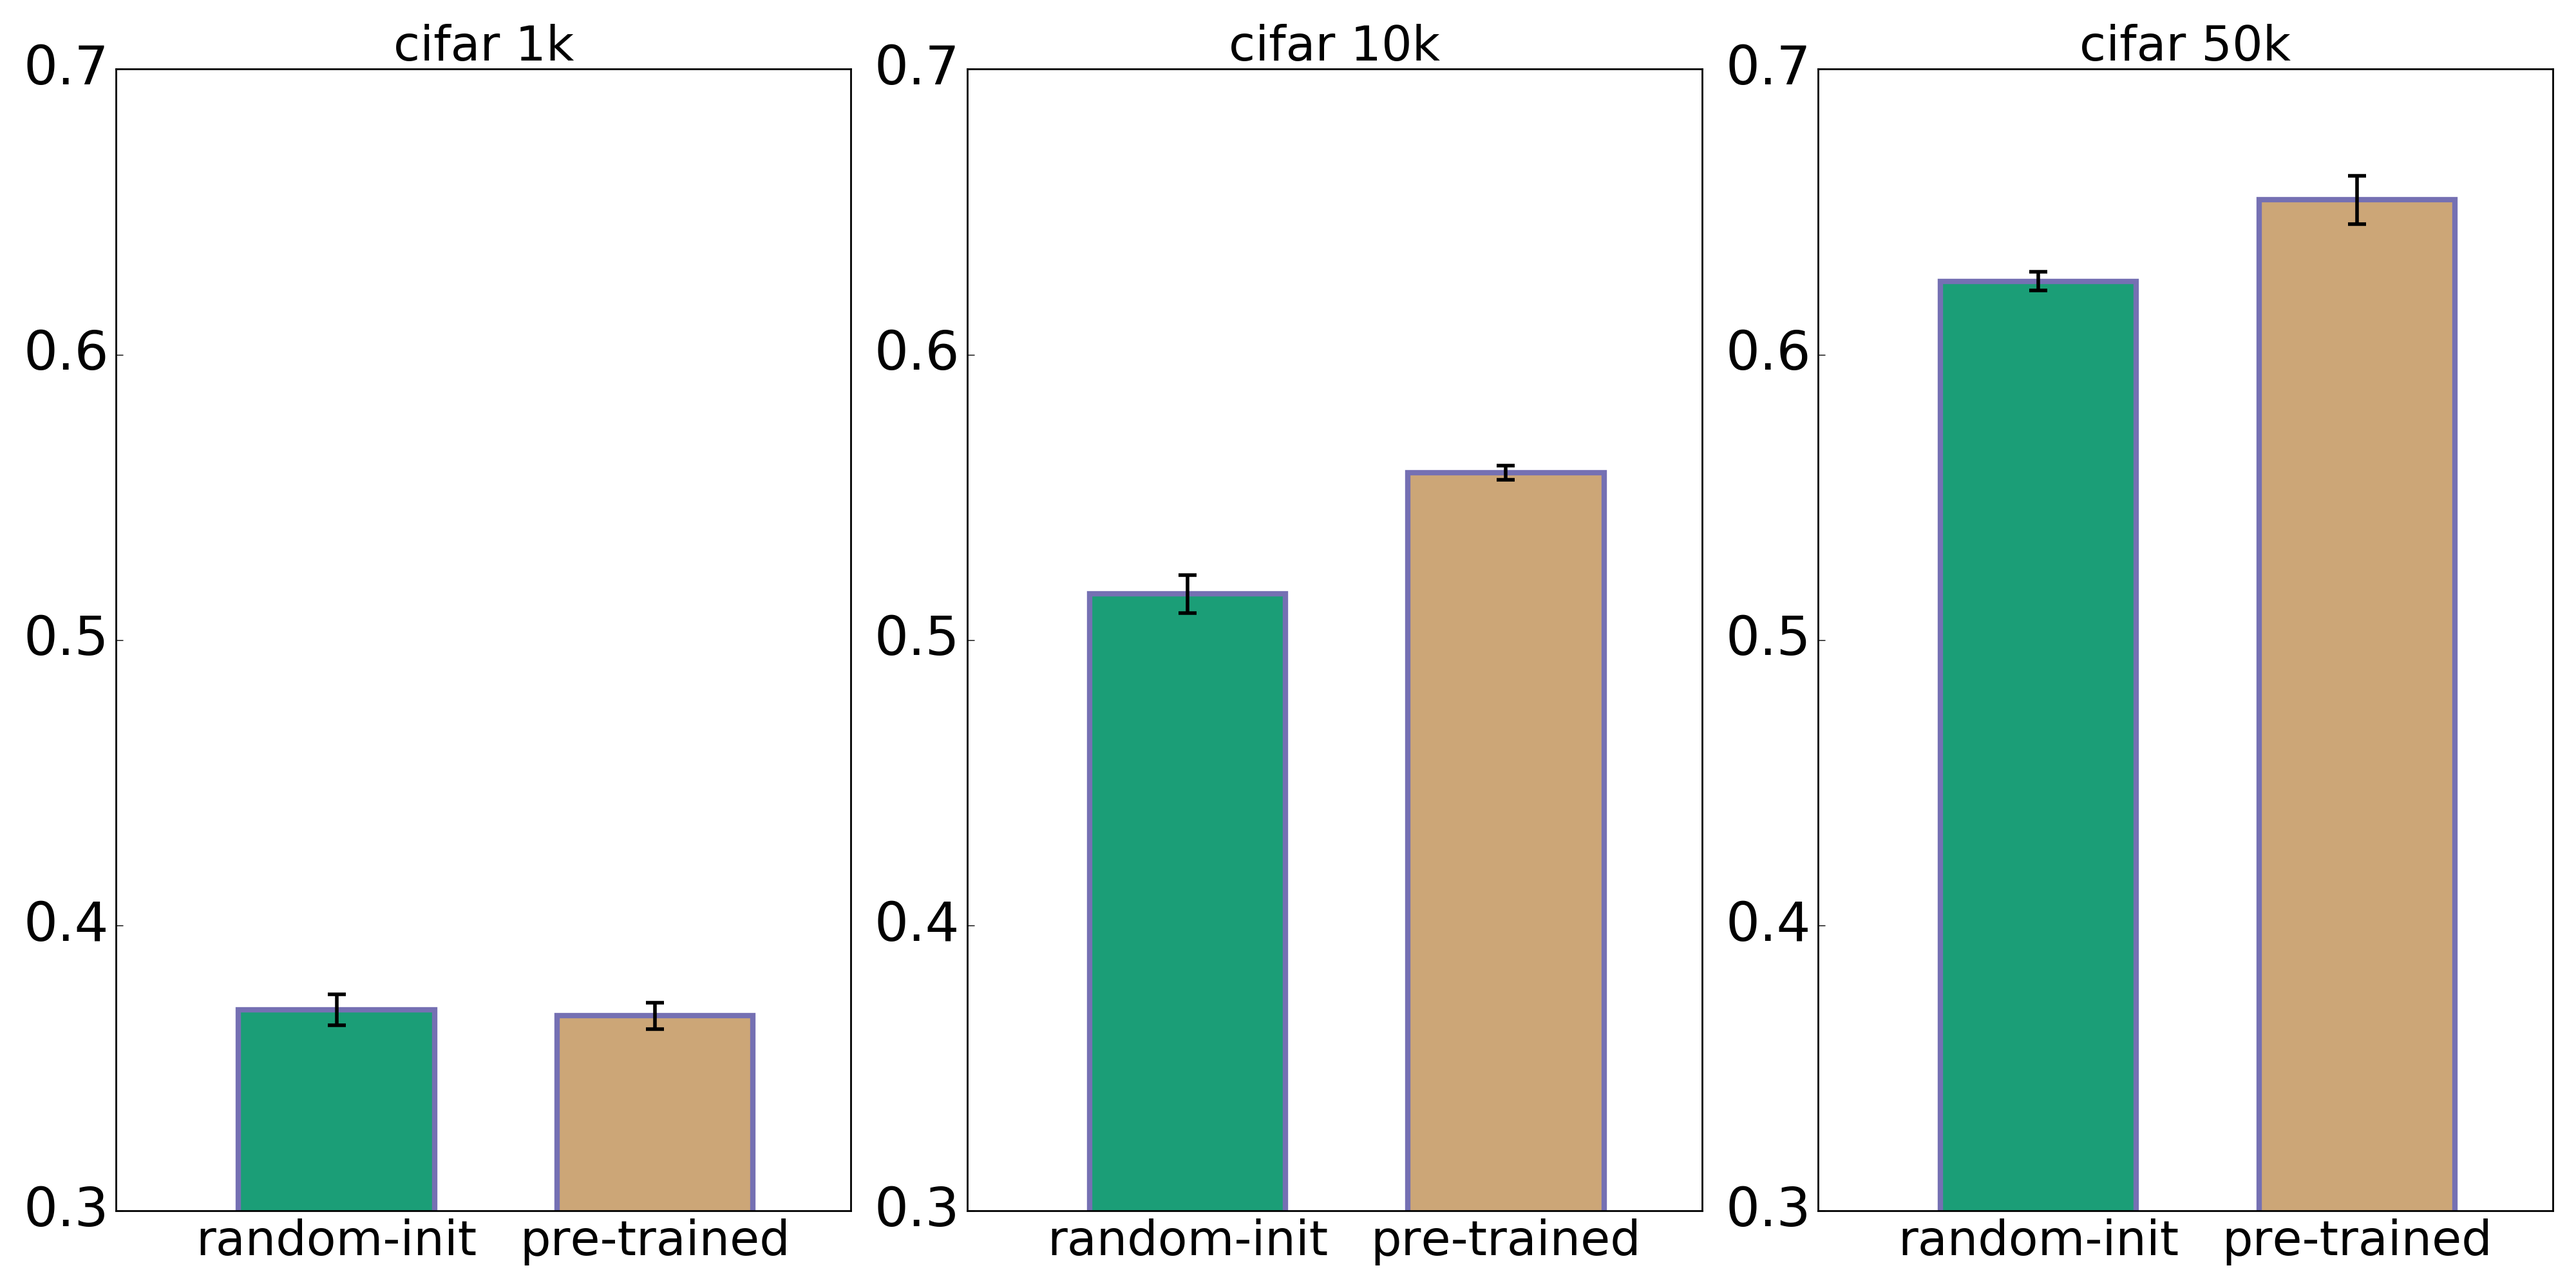
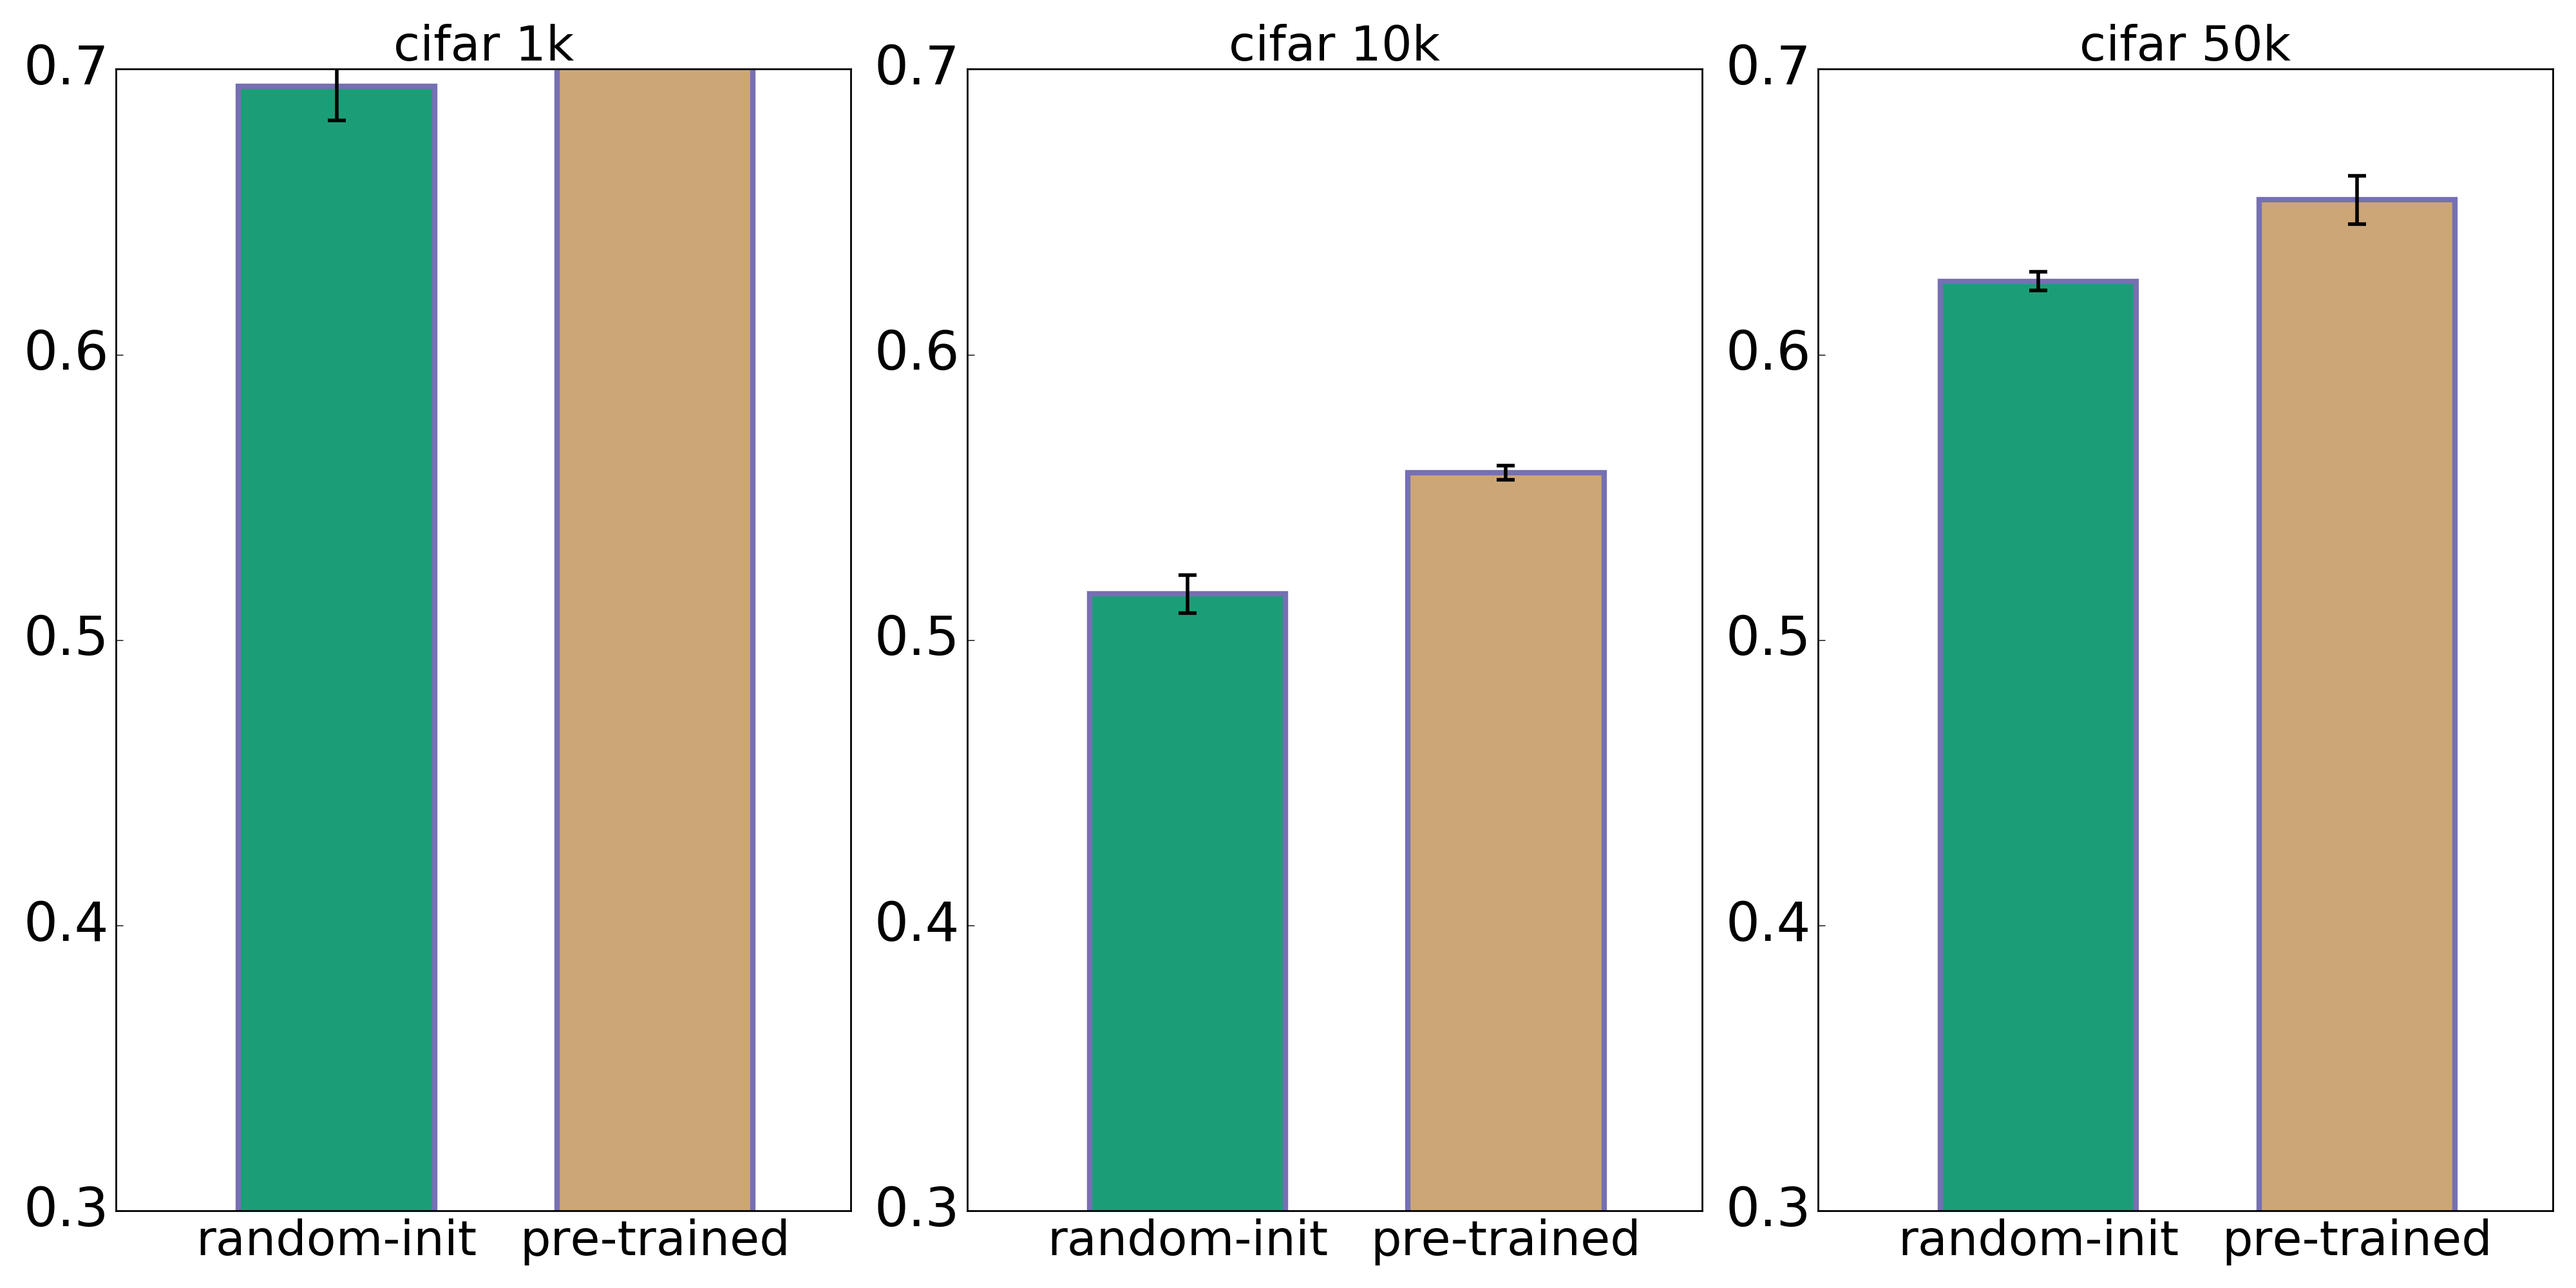
updated cifar1k values

Changed region(s): [[0.0938, 0.031, 0.3125, 0.806]]

diff --git a/presentation/paper/autoencoder_pretraining.tex b/presentation/paper/autoencoder_pretraining.tex
@@ -330,13 +330,13 @@
 
       Unlike the CAE using a sigmoidal function, the representation learned with ReLu activation function did not improve classification accuracy of the CNN.
 
-      \begin{figure}[h]
+      \begin{figure}[ht]
 
 				\begin{subfigure}{0.4\linewidth}
 
 					\centering
-					\includegraphics[width=0.6\linewidth]{../graphics/reconstructions/cifar/relu/input_00_relu.png}
-					\includegraphics[width=0.6\linewidth]{../graphics/reconstructions/cifar/relu/reconstruction_00_relu.png}
+					\includegraphics[width=0.4\linewidth]{../graphics/reconstructions/cifar/relu/input_00_relu.png}
+					\includegraphics[width=0.4\linewidth]{../graphics/reconstructions/cifar/relu/reconstruction_00_relu.png}
 					%\caption{(CAE:) Reconstruction example using ReLU activation + smaller network size}
 
 				\end{subfigure}
@@ -396,10 +396,69 @@
     \end{figure}
 
       \paragraph{Filters after Training}
+
+      When observing the learned first layer filters after training on the classification task, we observe a striking difference between the pre-trained and randomly initialized networks. An example on the \emph{CIFAR-10} dataset can be seen in figure~\ref{fig:cifar_filters}
+
         \begin{enumerate}
-          \item{Include filter plot after training}
+          
           \item{Describe first layer filters are different AFTER training although classification accuracy might be similar}
         \end{enumerate}
+
+
+      \begin{figure}
+          \centering
+
+            \begin{subfigure}{.4\linewidth}
+              \centering
+              \includegraphics[width=0.1\linewidth]{../graphics/cifar_filters/pre_trained_01.png} 
+              \includegraphics[width=0.1\linewidth]{../graphics/cifar_filters/pre_trained_02.png} %\hspace{0.05\linewidth}
+              \includegraphics[width=0.1\linewidth]{../graphics/cifar_filters/pre_trained_03.png}
+              \includegraphics[width=0.1\linewidth]{../graphics/cifar_filters/pre_trained_04.png} %\hspace{0.05\linewidth}
+              \includegraphics[width=0.1\linewidth]{../graphics/cifar_filters/pre_trained_05.png} %\hspace{0.05\linewidth}
+              \includegraphics[width=0.1\linewidth]{../graphics/cifar_filters/pre_trained_06.png} \\
+              \includegraphics[width=0.1\linewidth]{../graphics/cifar_filters/pre_trained_07.png} %\hspace{0.05\linewidth}
+              \includegraphics[width=0.1\linewidth]{../graphics/cifar_filters/pre_trained_08.png} %\hspace{0.05\linewidth}
+              \includegraphics[width=0.1\linewidth]{../graphics/cifar_filters/pre_trained_09.png}
+              \includegraphics[width=0.1\linewidth]{../graphics/cifar_filters/pre_trained_10.png} 
+              \includegraphics[width=0.1\linewidth]{../graphics/cifar_filters/pre_trained_11.png} %\hspace{0.05\linewidth}
+              \includegraphics[width=0.1\linewidth]{../graphics/cifar_filters/pre_trained_12.png} \\
+              \includegraphics[width=0.1\linewidth]{../graphics/cifar_filters/pre_trained_13.png} %\hspace{0.05\linewidth}
+              \includegraphics[width=0.1\linewidth]{../graphics/cifar_filters/pre_trained_14.png} %\hspace{0.05\linewidth}
+              \includegraphics[width=0.1\linewidth]{../graphics/cifar_filters/pre_trained_15.png}
+              \includegraphics[width=0.1\linewidth]{../graphics/cifar_filters/pre_trained_16.png} %\hspace{0.05\linewidth}
+              \includegraphics[width=0.1\linewidth]{../graphics/cifar_filters/pre_trained_17.png} %\hspace{0.05\linewidth}
+              \includegraphics[width=0.1\linewidth]{../graphics/cifar_filters/pre_trained_18.png}
+              %\caption{\emph{CIFAR-10}(CNN): random first layer filters, pre-trained}
+            \end{subfigure}
+            \begin{subfigure}{.4\linewidth}
+              \centering
+              \includegraphics[width=0.1\linewidth]{../graphics/cifar_filters/random_01.png} 
+              \includegraphics[width=0.1\linewidth]{../graphics/cifar_filters/random_02.png} %\hspace{0.05\linewidth}
+              \includegraphics[width=0.1\linewidth]{../graphics/cifar_filters/random_03.png}
+              \includegraphics[width=0.1\linewidth]{../graphics/cifar_filters/random_04.png} %\hspace{0.05\linewidth}
+              \includegraphics[width=0.1\linewidth]{../graphics/cifar_filters/random_05.png} %\hspace{0.05\linewidth}
+              \includegraphics[width=0.1\linewidth]{../graphics/cifar_filters/random_06.png} \\
+              \includegraphics[width=0.1\linewidth]{../graphics/cifar_filters/random_07.png} %\hspace{0.05\linewidth}
+              \includegraphics[width=0.1\linewidth]{../graphics/cifar_filters/random_08.png} %\hspace{0.05\linewidth}
+              \includegraphics[width=0.1\linewidth]{../graphics/cifar_filters/random_09.png}
+              \includegraphics[width=0.1\linewidth]{../graphics/cifar_filters/random_10.png} 
+              \includegraphics[width=0.1\linewidth]{../graphics/cifar_filters/random_11.png} %\hspace{0.05\linewidth}
+              \includegraphics[width=0.1\linewidth]{../graphics/cifar_filters/random_12.png} \\
+              \includegraphics[width=0.1\linewidth]{../graphics/cifar_filters/random_13.png} %\hspace{0.05\linewidth}
+              \includegraphics[width=0.1\linewidth]{../graphics/cifar_filters/random_14.png} %\hspace{0.05\linewidth}
+              \includegraphics[width=0.1\linewidth]{../graphics/cifar_filters/random_15.png}
+              \includegraphics[width=0.1\linewidth]{../graphics/cifar_filters/random_16.png} %\hspace{0.05\linewidth}
+              \includegraphics[width=0.1\linewidth]{../graphics/cifar_filters/random_17.png} %\hspace{0.05\linewidth}
+              \includegraphics[width=0.1\linewidth]{../graphics/cifar_filters/random_18.png}
+              %\caption{\emph{CIFAR-10}(CNN): random first layer filters, random-init}
+            \end{subfigure}
+
+          \caption{\textbf{\emph{CIFAR-10} CNN} selection of first layer filters. pre-trained (left), random-init (right)}
+          \label{fig:cifar_filters}
+
+      \end{figure}
+
+
 
   \subsubsection{Statistical Significance}
     In order to check the statistical significance of the achieved pretraining improvements, we conducted a standard t-test.
@@ -411,21 +470,21 @@
       \caption{Statistical Significance of Pretraining Improvements}
       \label{table:significance}
       \centering
-      \begin{tabular}{lll}
+      \begin{tabular}{llcl}
         \toprule
         %\multicolumn{2}{c}{Part}                   \\
         %\cmidrule{1-2}
-        Dataset     & Size     & Significance (p-value) \\
+        Dataset     & Size    & Average Accuracy Improvement & Significance (p-value) \\
         \midrule
-        MNIST & 1k  & \textbf{4.34e-05} \\
-        & 10k  & \textbf{0.0411} \\
-        & 50k  & \textbf{0.00635} \\
+        MNIST & 1k    & + 0.37 \%  & < 5e-4 \\
+              & 10k   & + 0.39 \%  & < 5e-4 \\
+              & 50k   & + 0.32 \%  & < 1e-2 \\
         \midrule
-        CIFAR-10 & 1k & 0.419 \\
-        & 10k & \textbf{6.83e-10} \\
-        & 50k & \textbf{0.000314} \\
+        CIFAR-10  & 1k    & + 4.55 \% & < 1e-7\\
+                  & 10k   & + 4.25 \% & < 1e-9\\
+                  & 50k   & + 2.85 \% & < 1e-6\\
         \midrule
-        CK+     & 1k & \textbf{0.00194} \\
+        CK+     & 1k & + 4.5 \%      & < 1e-7 \\
         \bottomrule
       \end{tabular}
     \end{table}

diff --git a/presentation/box_plots/create_boxplots.py b/presentation/box_plots/create_boxplots.py
@@ -19,8 +19,13 @@ def create_cifar_boxplot():
 
 	print('\nCIFAR')
 
-	cifar_1k_pre_trained = [0.3655, 0.3703, 0.3681, 0.3634, 0.3650, 0.3698, 0.3800, 0.3679, 0.3652] 
-	cifar_1k_random_init = [0.3628, 0.3754, 0.3712, 0.3614, 0.3721, 0.3729, 0.3648, 0.3793, 0.3704, 0.3737]
+	# cifar_1k_pre_trained = [0.3655, 0.3703, 0.3681, 0.3634, 0.3650, 0.3698, 0.3800, 0.3679, 0.3652] 
+	# cifar_1k_random_init = [0.3628, 0.3754, 0.3712, 0.3614, 0.3721, 0.3729, 0.3648, 0.3793, 0.3704, 0.3737]
+	
+	cifar_1k_pre_trained = [0.7475, 0.7374, 0.7273, 0.7525, 0.7424, 0.7323, 0.7374, 0.7424, 0.7374, 0.7374]
+	cifar_1k_random_init = [0.6970, 0.6818, 0.7020, 0.6717, 0.7020, 0.7020, 0.6818, 0.7020, 0.7121, 0.6869]
+
+
 	cifar_1k = [cifar_1k_random_init, cifar_1k_pre_trained]
 	cifar_1k_trial_count = min(len(cifar_1k_pre_trained), len(cifar_1k_random_init))
 
